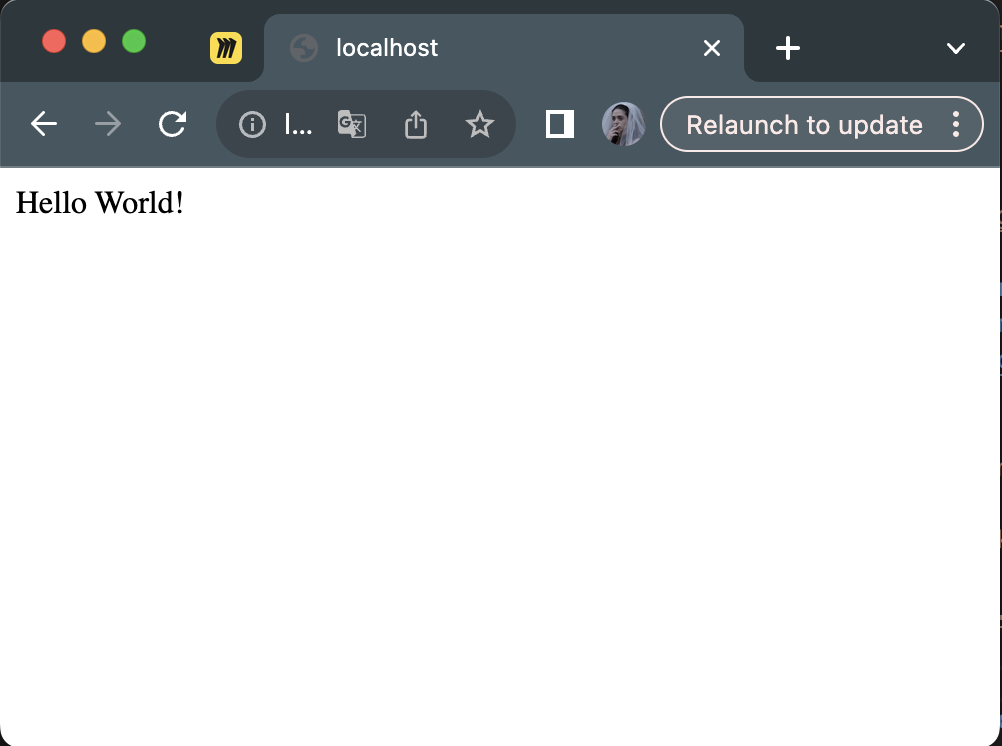
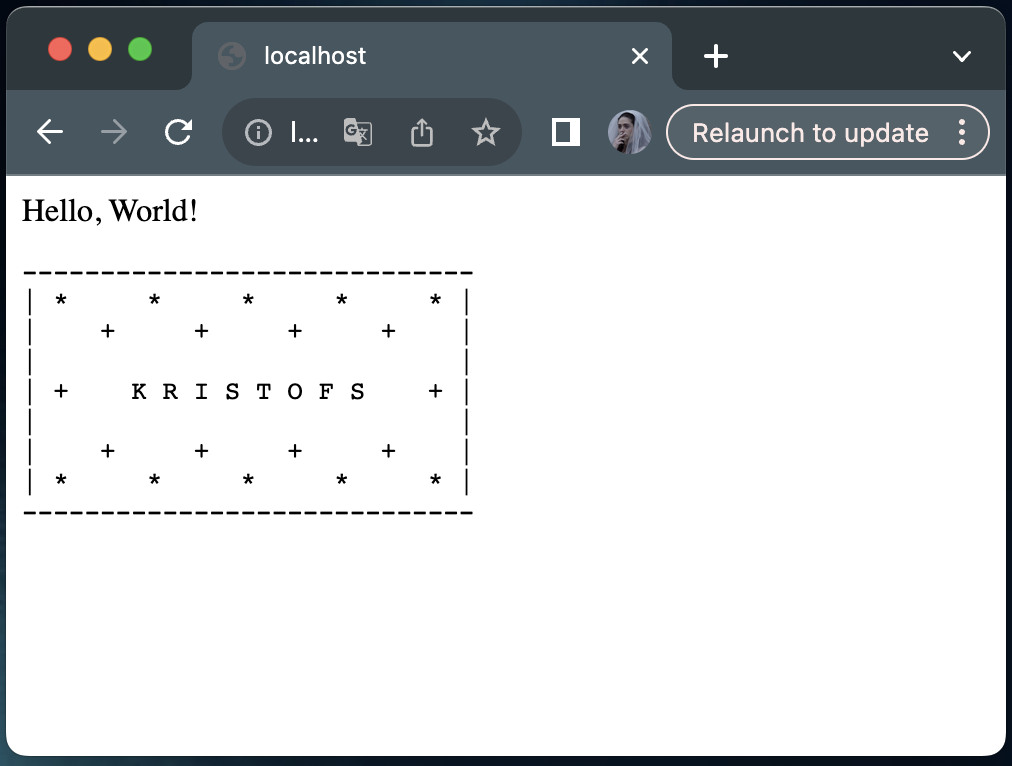
всеgit add .! Э

diff --git a/src/Part_3_server/serv.c b/src/Part_3_server/serv.c
@@ -5,7 +5,19 @@ int main(void)
 {
     while(FCGI_Accept() >= 0)
     {
-        printf("Content-type: text/html\r\nStatus: 200 OK\r\n\r\nHello World!");
+        printf("Content-type: text/html\r\nStatus: 200 oK\r\n\r\n");
+        printf("Hello, World!\n");
+        printf("<pre>\n");
+        printf("-----------------------------\n");
+        printf("| *     *     *     *     * |\n");
+        printf("|    +     +     +     +    |\n");
+        printf("|                           |\n");
+        printf("| +    K R I S T O F S    + |\n");
+        printf("|                           |\n");
+        printf("|    +     +     +     +    |\n");
+        printf("| *     *     *     *     * |\n");
+        printf("-----------------------------\n");
+        printf("<pre>\n");
     }
 
     return 0;

diff --git a/src/Part_4_dockerImage/serv.c b/src/Part_4_dockerImage/serv.c
@@ -5,7 +5,19 @@ int main(void)
 {
     while(FCGI_Accept() >= 0)
     {
-        printf("Content-type: text/html\r\nStatus: 200 OK\r\n\r\nHello World!");
+        printf("Content-type: text/html\r\nStatus: 200 oK\r\n\r\n");
+        printf("Hello, World!\n");
+        printf("<pre>\n");
+        printf("-----------------------------\n");
+        printf("| *     *     *     *     * |\n");
+        printf("|    +     +     +     +    |\n");
+        printf("|                           |\n");
+        printf("| +    K R I S T O F S    + |\n");
+        printf("|                           |\n");
+        printf("|    +     +     +     +    |\n");
+        printf("| *     *     *     *     * |\n");
+        printf("-----------------------------\n");
+        printf("<pre>\n");
     }
 
     return 0;

diff --git a/src/Part_5_Dockle/serv.c b/src/Part_5_Dockle/serv.c
@@ -5,7 +5,19 @@ int main(void)
 {
     while(FCGI_Accept() >= 0)
     {
-        printf("Content-type: text/html\r\nStatus: 200 OK\r\n\r\nHello World!");
+        printf("Content-type: text/html\r\nStatus: 200 oK\r\n\r\n");
+        printf("Hello, World!\n");
+        printf("<pre>\n");
+        printf("-----------------------------\n");
+        printf("| !     !     !     !     ! |\n");
+        printf("|    ?     ?     ?     ?    |\n");
+        printf("|                           |\n");
+        printf("| ?    K R I S T O F S    ? |\n");
+        printf("|                           |\n");
+        printf("|    ?     ?     ?     ?    |\n");
+        printf("| !     !     !     !     ! |\n");
+        printf("-----------------------------\n");
+        printf("<pre>\n");
     }
 
     return 0;

diff --git a/src/report.md b/src/report.md
@@ -595,6 +595,12 @@ brew install goodwithtech/r/dockle
 
 ##### Просканируй образ из предыдущего задания через `dockle [image_id|repository]`.
 
+Создаю образ через команду 
+```Bash
+docker build -t kristofs ./ 
+```
+Флаг -t используется для задания имени и тега создаваемого образа.
+
 Просто просканировать образ у меня не получилось, пришлось сделать сначала архив через команду: 
 
 Шаблон: `save <IMAGE's name>:<tag (latest)> -o <name of tar>.tar`
@@ -609,7 +615,6 @@ docker save kristofs:latest -o kristofs.tar
 ```Bash
 dockle --input kristofs.tar 
 ```
-
 Ошибки:
 
 <img src="./photos/Part_5/point_3/errors_dockle.png" alt=" errors to dockle " width="800"/> 
@@ -624,9 +629,10 @@ https://github.com/goodwithtech/dockle/blob/master/CHECKPOINT.md#cis-di-0010
 
 Указывает, что Docker-образ не создает отдельного пользователя для запуска процессов внутри контейнера. Вместо этого процессы запускаются от имени root, это небезопасно. Запуск процессов от имени root внутри контейнера может привести к получению root прав для злоумышленника
 
-- добавила группу nginx-user
-- добавила пользователя nginx-user
-- дала файлам связанным с nginx нового владельца nginx-user
+- добавила **`USER nginx`**
+
+После выполнения **`USER nginx`** все последующие команды будут выполняться от имени nginx, а не от root.
+В данном случае nginx — это пользователь, который создается автоматически при установке NGINX в контейнере. Пользователь предопределен в официальном образе NGINX, который используется в качестве базового образа (FROM nginx). Этот пользователь имеет ограниченные права и используется только для запуска процессов NGINX.
 
 **CIS-DI-0005:** `Enable Content trust for Docker` : при каждой новой сессии терминала после создания образа
 
@@ -644,7 +650,6 @@ export DOCKER_CONTENT_TRUST=1
 ```Bash
 HEALTHCHECK --interval=5m --timeout=3s
 ```
-
 --interval=5m: Проверка здоровья выполняется каждые 5 минут.
 --timeout=3s: Если команда проверки (curl) не завершится в течение 3 секунд, она считается неудачной.
 ```Bash
@@ -672,6 +677,9 @@ export DOCKLE_ACCEPT_KEYS=NGINX_GPGKEYS,NGINX_GPGKEY_PATH
 ```Bash
 dockle --input kristofs.tar
 ```
+После исправления: 
+
+<img src="./photos/Part_5/point_4/after_cleaning_mistakes.png" alt=" после решения ошибок " width="800"/> 
 
 ## Part 6. Базовый **Docker Compose**
 
@@ -691,15 +699,55 @@ brew install docker-compose
 
 ##### 1) Подними докер-контейнер из [Части 5](#part-5-инструмент-dockle) _(он должен работать в локальной сети, т. е. не нужно использовать инструкцию **EXPOSE** и мапить порты на локальную машину)_.
 
-Когда говорится, что контейнер должен работать в локальной сети, это означает, что контейнер будет доступен только для других контейнеров в той же Docker-сети, но не будет доступен снаружи (с хостовой машины или из внешних сетей).
-
-Инструкция EXPOSE используется в Dockerfile для указания, какие порты контейнер будет "слушать" (открывать для взаимодействия). Она не пробрасывает порты на хост-машину, а только сообщает Docker, что контейнер будет использовать указанные порты.
+Когда говорится, что контейнер должен работать в локальной сети, это означает, что контейнер будет доступен только для других контейнеров в той же Docker-сети, но не будет доступен снаружи (с хостовой машины или из внешних сетей). Инструкция EXPOSE используется в Dockerfile для указания, какие порты контейнер будет "слушать" (открывать для взаимодействия). Она не пробрасывает порты на хост-машину, а только сообщает Docker, что контейнер будет использовать указанные порты.
 
 
+Подняла контейнер `FIRST`, который запускается, заходя в папку 5 части. \
+<img src="./photos/Part_6/point_1/part_1_first_container.png" alt=" первый, который запускает главный контейнер с сервером " width="400"/> 
+
+(Можно скопировать файлы и в папку 6, но нужно внимательно посмотреть, чтобы для каждого контейнера были свои файлы `nginx.conf`, чтобы для каждого применялись свои настройки!)
 
 ##### 2) Подними докер-контейнер с **nginx**, который будет проксировать все запросы с 8080 порта на 81 порт первого контейнера.
 ##### Замапь 8080 порт второго контейнера на 80 порт локальной машины.
 
+Для этого контейнера необходим свой `nginx.conf` с собственными настройками
+
+<img src="./photos/Part_6/point_1/nginx_second_container.png" alt=" второй, который слушает первый " width="400"/> 
+listen 8080; — указывает, что NGINX будет слушать входящие HTTP-запросы на порту 8080 внутри контейнера.
+
+proxy_pass http://FIRST:81; — все запросы, поступающие на порт 8080, будут перенаправлены на сервер FIRST на порту 81.
+NGINX внутри контейнера SECOND слушает порт 8080.
+Когда NGINX получает запрос на порт 8080, он перенаправляет его на контейнер FIRST на порт 81.
+
+Запрос на хост \
+переход по адресу http://localhost:80.\
+Docker перенаправляет запрос с порта 80 на хосте на порт 8080 внутри контейнера SECOND.\
+NGINX внутри контейнера SECOND получает запрос на порту 8080.\
+NGINX перенаправляет запрос на контейнер FIRST на порту 81.\
+Контейнер FIRST обрабатывает запрос и возвращает ответ NGINX.\
+NGINX передает ответ обратно на хост\
+
+<img src="./photos/Part_6/point_1/docker_compose.png" alt=" файл докер композа " width="400"/>
+
+Весь файл docker_compose: \
+Для второго контейнера копирую новый конфигурационный файл
+Указываю какой порт он слушает:
+80 — это порт на хосте.
+8080 — это порт внутри контейнера.
+
 ##### Останови все запущенные контейнеры.
+
+<img src="./photos/Part_6/point_2/no_containers.png" alt=" остановила все контейнеры " width="400"/>
+
 ##### Собери и запусти проект с помощью команд `docker-compose build` и `docker-compose up`.
+
+Делаю `docker-compose build` \
+<img src="./photos/Part_6/point_3/docker_compose_build.png" alt=" docker-compose build " width="400"/>
+
+Делаю `docker-compose up` \
+Здесь открываются логи, видно, что контейнеры запущены: 
+<img src="./photos/Part_6/point_3/docker_compose_up.png" alt=" docker-compose build " width="400"/>
+
 ##### Проверь, что в браузере по *localhost:80* отдается написанная тобой страничка, как и ранее.
+
+<img src="./photos/Part_6/point_3/hello_world_6.png" alt=" hello world 6 " width="400"/>
